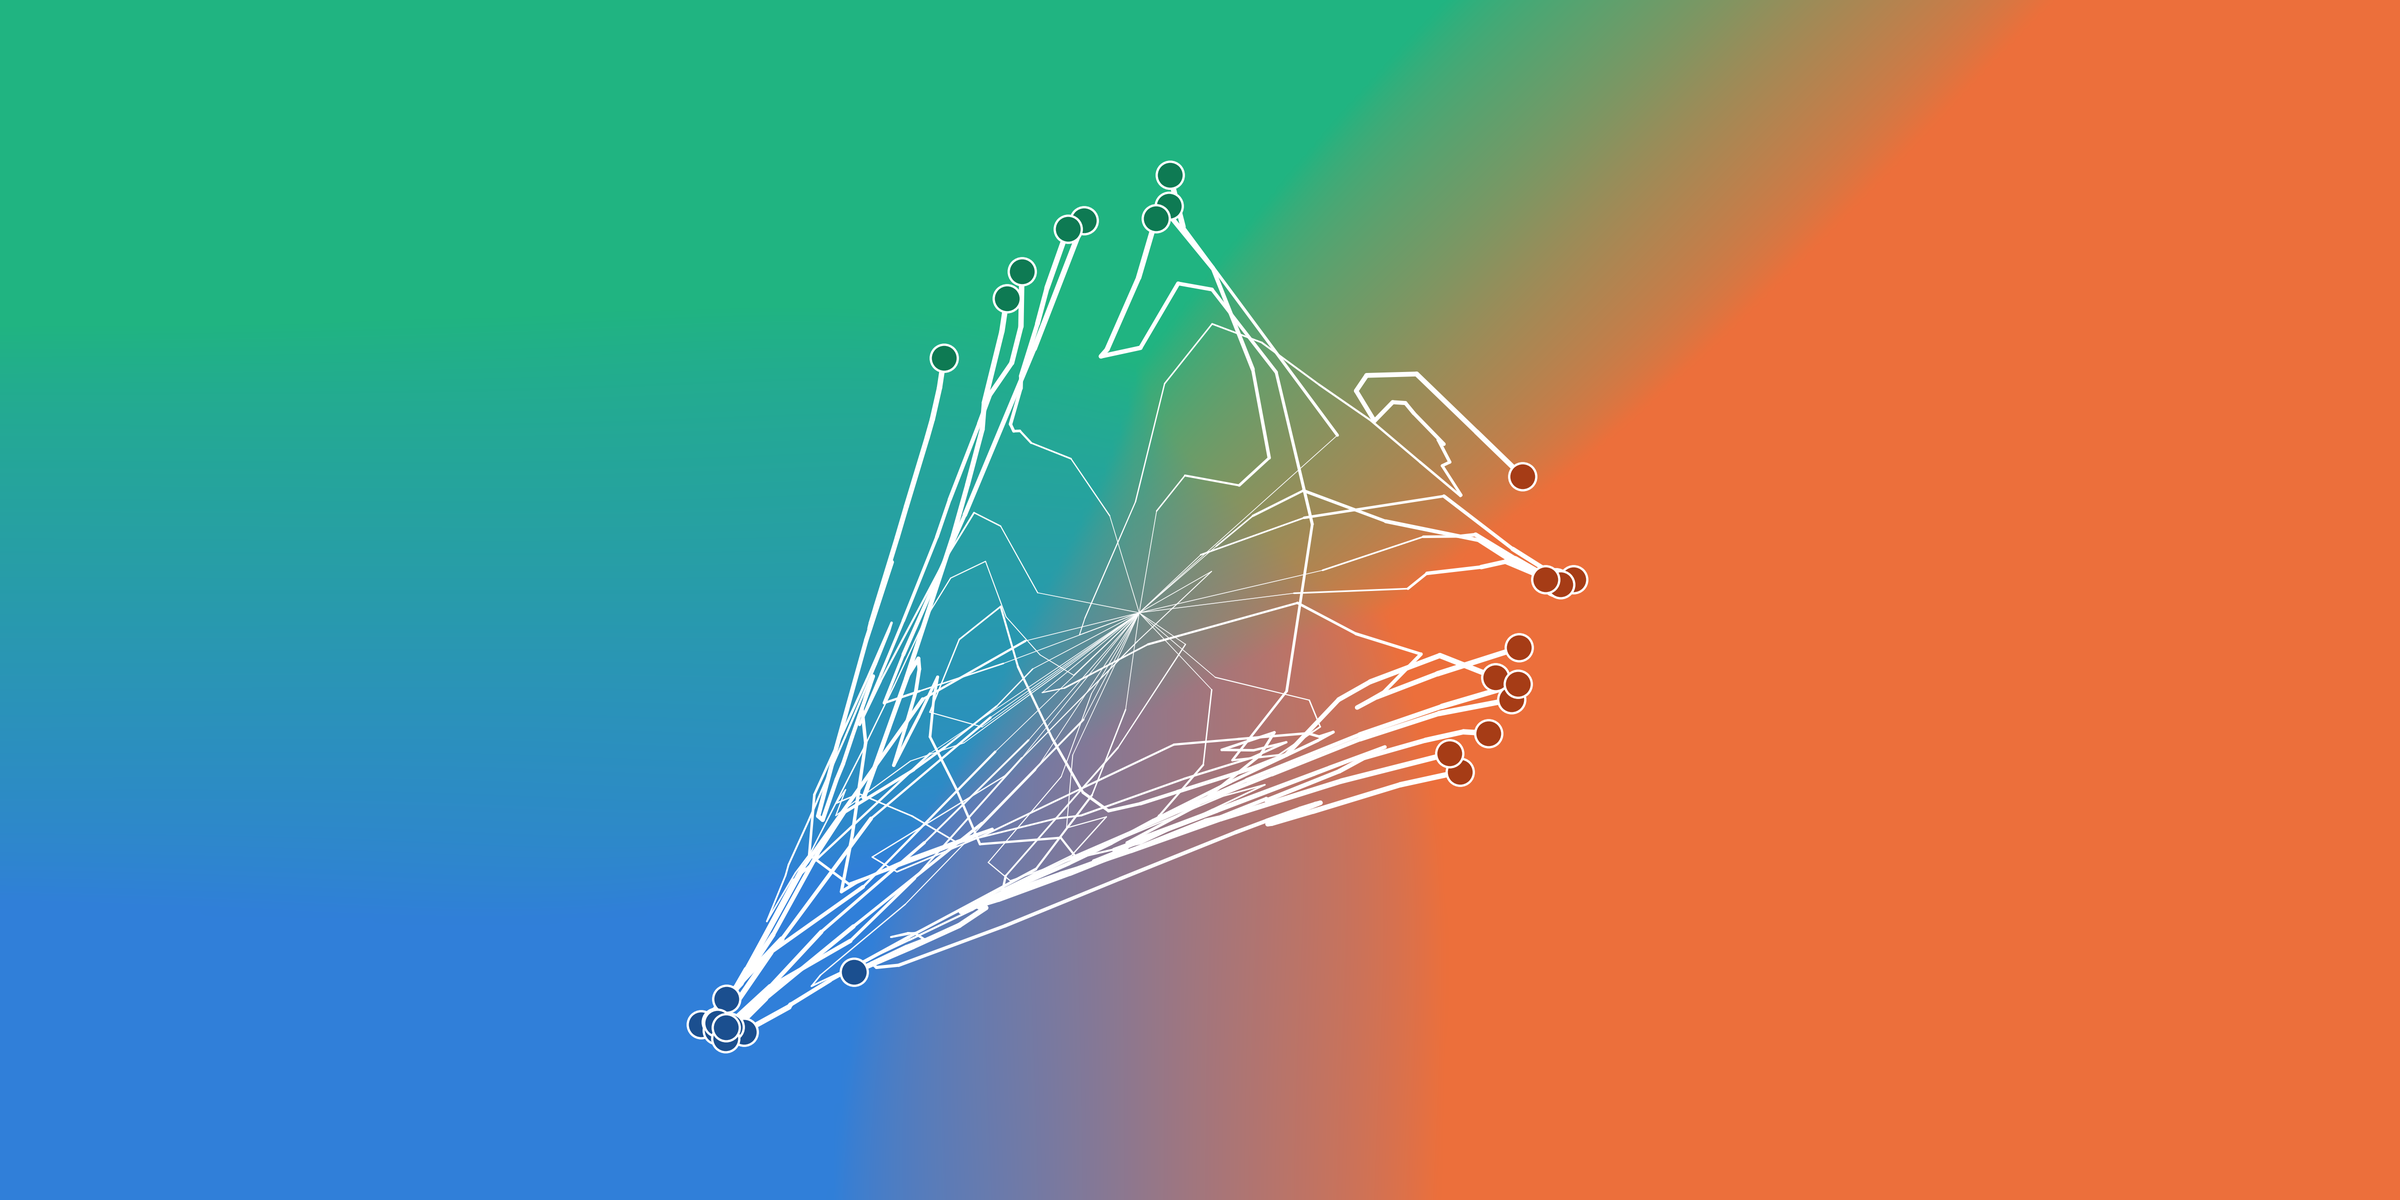
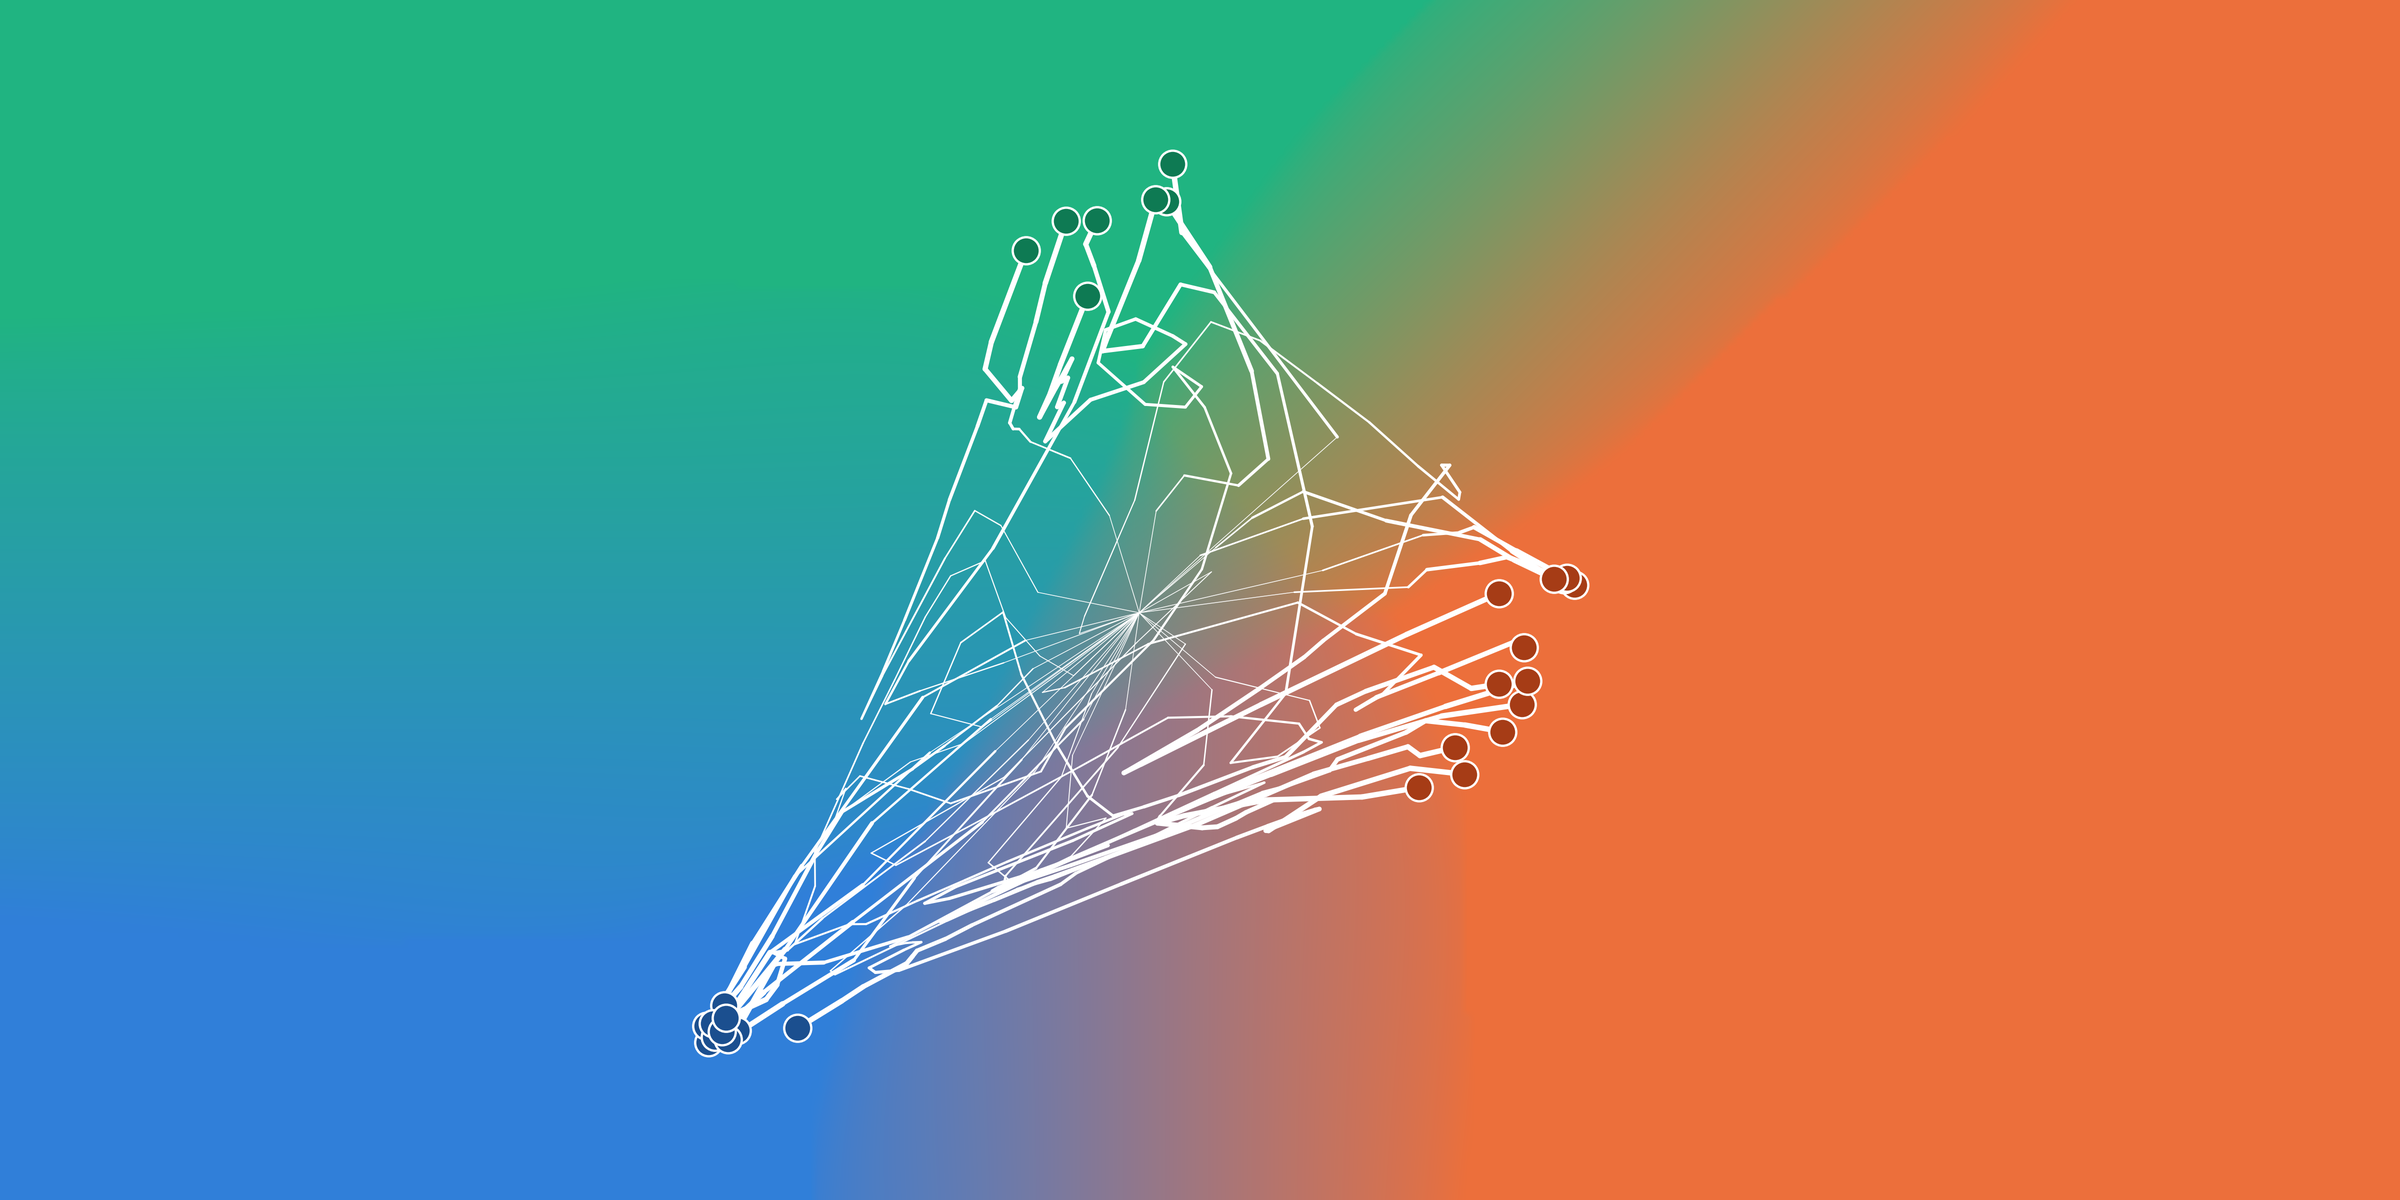
Compute figure captions from the study; redraw on the 6k sweep
A caption cannot state a number the script did not compute. The two-arm
caption claimed "4,000 tests" and "less than half the evidence" while the
bars it sat under were a 6,000-rep run measuring 0.57 -- the bars redraw,
the prose does not, and nothing catches it. Test count and both ratios now
come off the pickle. arena_three and arena_drift lose their hand-written
captions for the same reason: correct bars, frozen numbers.

Interpretation left the images with them -- "it knows when measuring stops
paying", "the margin grows with the number of arms". Those are claims, not
measurements, so they belong in the README, and one legend beats two.

Redrawn on the properly sized sweep (6,000 reps, production parameters,
--workers 4 after calibration): arena_two_arm, policy_atlas, and the three
heroes. arena_three_arm still shows the 2026-08-07 image; it needs a
three-arm study that does not exist yet.

README's two-arm table updated: 0.79 regret on 0.57 of the evidence, from
the 402-parameter champion.

Changed region(s): [[0.2812, 0.1233, 0.6562, 0.8942]]

diff --git a/figures.py b/figures.py
@@ -107,12 +107,6 @@ def arena(
         ("ExploreThenCommit", "explore-then-commit", AQUA),
         ("ZTest", "z-test at 5%", YELLOW),
     ]
-    caption = caption or (
-        "Each strategy plays the same 4,000 random A/B tests. Regret: profit left on the table vs an oracle that picks the\n"
-        "winner from day one (lower is better). Evidence: total measurement bought - an even split measures at full power,\n"
-        "sending everyone to one arm measures nothing, and the sum counts perfect-split epochs' worth of data collected.\n"
-        "The PINN loses 20% less than Thompson sampling on less than half the evidence - it knows when measuring stops paying."
-    )
     study = pickle.loads(open(study_path, "rb").read())
     by_policy: dict[str, list] = {}
 
@@ -132,6 +126,21 @@ def arena(
     ts_info, _ = stats(
         "ProbabilityMatching", lambda r: getattr(r, "precision_time", 0.0)
     )
+
+    # Every number in the caption is COMPUTED from this study. A hardcoded one
+    # goes stale the first time the sweep is re-run and nothing catches it: the
+    # 2026-08-13 redraw still claimed "4,000 tests" and "less than half the
+    # evidence" against a 6,000-rep run measuring 0.57. Interpretation belongs
+    # in the README, not here -- one legend, not two.
+    if caption is None:
+        pinn_regret, _ = stats("Pinn", lambda r: r.regret)
+        pinn_info, _ = stats("Pinn", lambda r: getattr(r, "precision_time", 0.0))
+        caption = (
+            f"Each strategy plays the same {len(by_policy['Pinn']):,} random tests. Regret: profit left on the table vs an oracle that\n"
+            "picks the winner from day one (lower is better). Evidence: total measurement bought - an even split measures at\n"
+            "full power, sending everyone to one arm measures nothing, and the sum counts perfect-split epochs of data.\n"
+            f"The PINN loses {1 - pinn_regret / ts_regret:.0%} less than Thompson sampling on {pinn_info / ts_info:.0%} of the evidence."
+        )
 
     fig, (ax_regret, ax_info) = plt.subplots(1, 2, figsize=(12, 3.6))
 
@@ -199,12 +208,6 @@ def arena_three() -> None:
             ("Elimination", "elimination at 5%\n(generalized z-test)", YELLOW),
             ("ExploreThenCommit", "explore-then-commit", AQUA),
         ],
-        caption=(
-            "Each strategy plays the same 4,000 random A/B/C tests (two challengers vs a control). Regret: profit left on\n"
-            "the table vs an oracle that picks the winner from day one (lower is better). Evidence: total measurement\n"
-            "bought, in perfect-thirds epochs. The PINN loses 22% less than Thompson sampling on 38% of the evidence -\n"
-            "the margin over every other policy grows with the number of arms."
-        ),
         xlim=2.8,
     )
 
@@ -254,14 +257,6 @@ def arena_drift() -> None:
             ("ProbabilityMatching", "Thompson sampling", ORANGE),
             ("TS-aware", "Thompson, drift-aware\n(forgetful posterior)", YELLOW),
         ],
-        caption=(
-            "Each strategy plays the same 500 random A/B tests in a world whose true effect never stops wandering.\n"
-            "Regret: profit left on the table vs an oracle that follows the MOVING winner (lower is better). Evidence:\n"
-            "total measurement bought, in perfect-split epochs. The static-world PINN transplanted unchanged still edges\n"
-            "out Thompson; the drift net at its no-drift setting matches them; telling it the truth makes it explore least\n"
-            "and lose most. Awareness of drift is not yet paying for itself - the drift-regime slice of the solve is the\n"
-            "open frontier, not the machinery around it."
-        ),
         xlim=2.2,
     )
 

diff --git a/README.md b/README.md
@@ -16,12 +16,14 @@ Yes, it even beats Thompson Sampling for a simple AB test. Oh! If you have been 
 
 | policy | regret (Thompson = 1.00) | wrong commits | commits | evidence (Thompson = 1.00) |
 |---|---|---|---|---|
-| PINN (this repo) | **0.80** | 6.6% | 99.2% | **0.46** |
+| PINN (this repo) | **0.79** | 5.6% | 98.6% | **0.57** |
 | Thompson sampling | 1.00 | 0.0% | never | 1.00 |
-| explore-then-commit | 1.65 | 13.0% | 100% | 0.33 |
-| z-test at 5% | 1.81 | 10.7% | 93.7% | 0.67 |
+| explore-then-commit | 1.62 | 13.6% | 100% | 0.32 |
+| z-test at 5% | 1.92 | 10.6% | 93.0% | 0.70 |
 
-Slightly better than TS in terms of "gains left on the table" (regret) and with the added benefit that _it actually stops_. It also needs to explore less in total. TS, even though it can deliver the goods, is known to be quite the over-curious explorer and the neural network fixes that. Full tables, including the three-arm arena, live in [kb/arena_results.md](kb/arena_results.md).
+Better than TS in terms of "gains left on the table" (regret) and with the added benefit that _it actually stops_. It also needs to explore less in total: TS, even though it can deliver the goods, is known to be quite the over-curious explorer and the neural network fixes that — it knows when measuring stops paying. That is the whole trick, and it is why the margin over every other policy grows with the number of arms.
+
+The net doing this has **402 parameters**. Full tables, including the three-arm arena, live in [kb/arena_results.md](kb/arena_results.md).
 
 ## Beyond just AB
 
